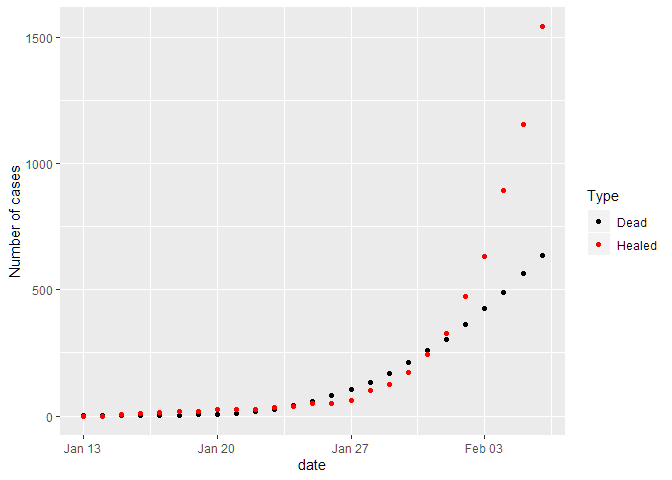
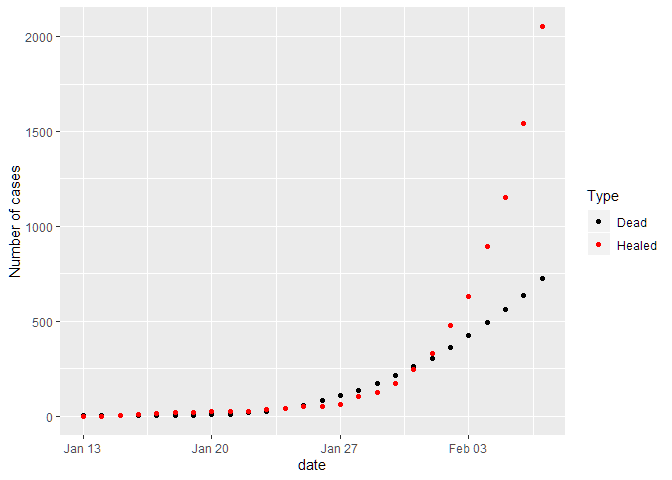
2/7 evening update.

diff --git a/Report_20200206.md b/Report_20200206.md
@@ -46,7 +46,7 @@ The last updated time (Beijing Time)is
 x$lastUpdateTime
 ```
 
-    ## [1] "2020-02-07 22:17:40"
+    ## [1] "2020-02-08 11:31:19"
 
 Now we present the total number of confirmed and suspected respectively.
 
@@ -58,10 +58,18 @@ dataDay %>% ggplot() + geom_point(aes(date,confirm,colour="Confirmed")) +geom_po
 
 Now we want to put an upper limit on infected cases, so we add up the
 confimred and suspected. Because a big portion of suspected cases become
-confirmed cases. This give us the following chart:
+confirmed cases.
+
+It is obvious that starting Jan. 28th, the increase of sum of confirmed
+and suspected case is on a straight line.
 
 ``` r
-dataDay %>% ggplot(aes(date,confirm+suspect))+geom_point()
+dataDay <- dataDay %>% mutate(confandsusp = confirm + suspect)
+dataforfitting <- dataDay %>% filter(date > make_date(2020,1,27)) 
+model <- lm(confandsusp ~ date, data=dataforfitting)
+plot(dataDay$date, dataDay$confandsusp, xlab = "Date", ylab = "confirmed + suspected" )
+abline(model)
+mtext(paste("The number of cases (suspected + confirmed) increases", as.character(floor(model$coefficients[2])),"per day on average after Jan 28th."))
 ```
 
 ![](Report_20200206_files/figure-gfm/unnamed-chunk-4-1.png)<!-- -->
@@ -131,4 +139,4 @@ grid.table(areatotal)
 
 ![](Report_20200206_files/figure-gfm/unnamed-chunk-11-1.png)<!-- -->
 
-\#\#Cases by Chinese provinces are no longer provided by the package
+## Cases by Chinese provinces are no longer provided by the package
